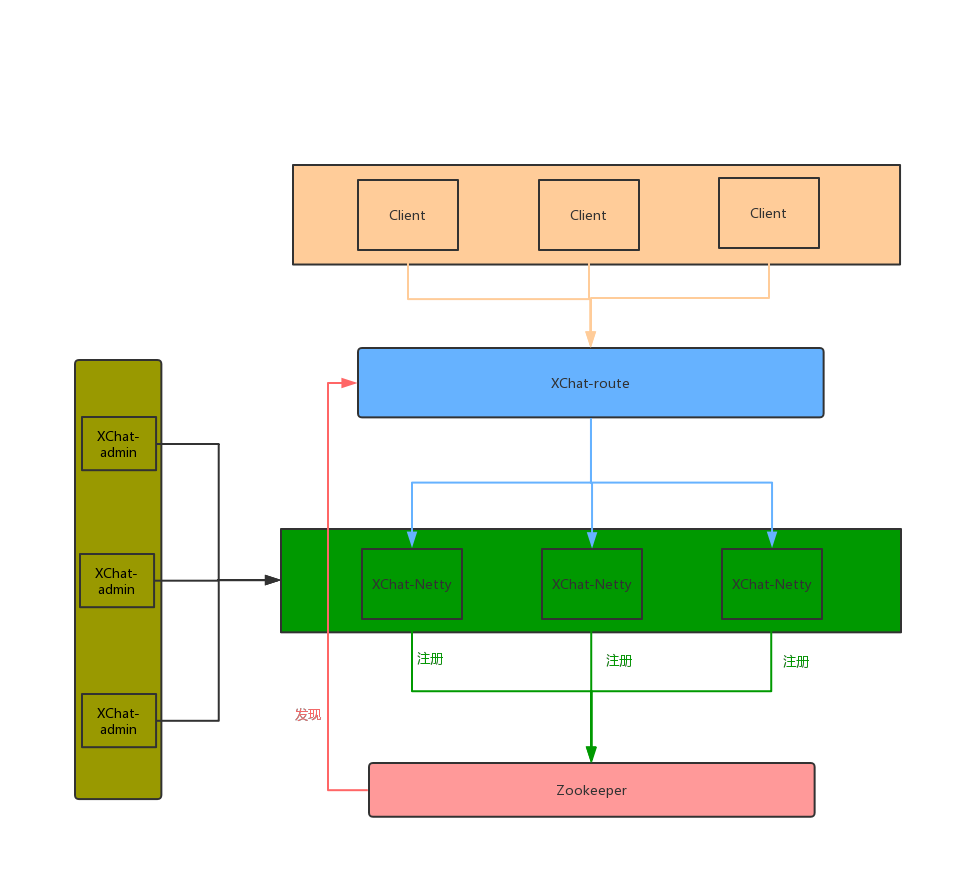
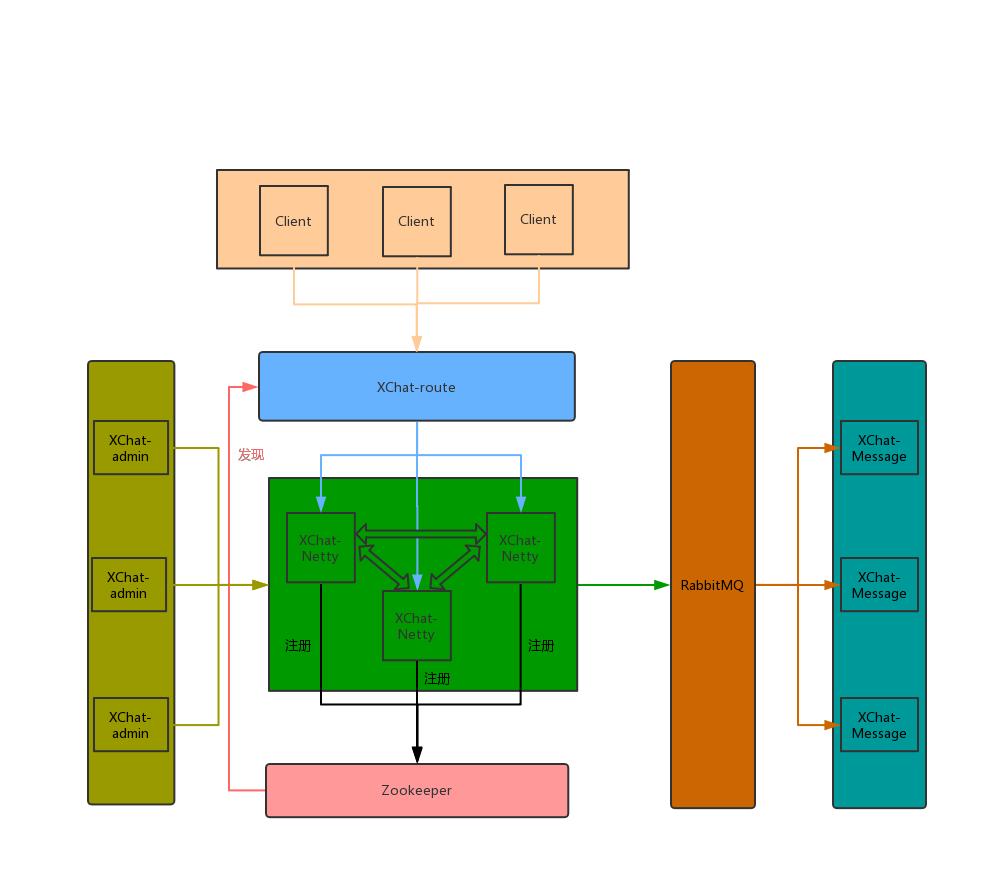
新增message模块

diff --git a/xchat-message/src/main/java/com/xxxx/xchat/XchatMessageApplication.java b/xchat-message/src/main/java/com/xxxx/xchat/XchatMessageApplication.java
@@ -1,0 +1,13 @@
+package com.xxxx.xchat;
+
+import org.springframework.boot.SpringApplication;
+import org.springframework.boot.autoconfigure.SpringBootApplication;
+
+@SpringBootApplication
+public class XchatMessageApplication {
+
+    public static void main(String[] args) {
+        SpringApplication.run(XchatMessageApplication.class, args);
+    }
+
+}

diff --git a/xchat-message/src/test/java/com/xxxx/xchat/XchatMessageApplicationTests.java b/xchat-message/src/test/java/com/xxxx/xchat/XchatMessageApplicationTests.java
@@ -1,0 +1,13 @@
+package com.xxxx.xchat;
+
+import org.junit.jupiter.api.Test;
+import org.springframework.boot.test.context.SpringBootTest;
+
+@SpringBootTest
+class XchatMessageApplicationTests {
+
+    @Test
+    void contextLoads() {
+    }
+
+}
